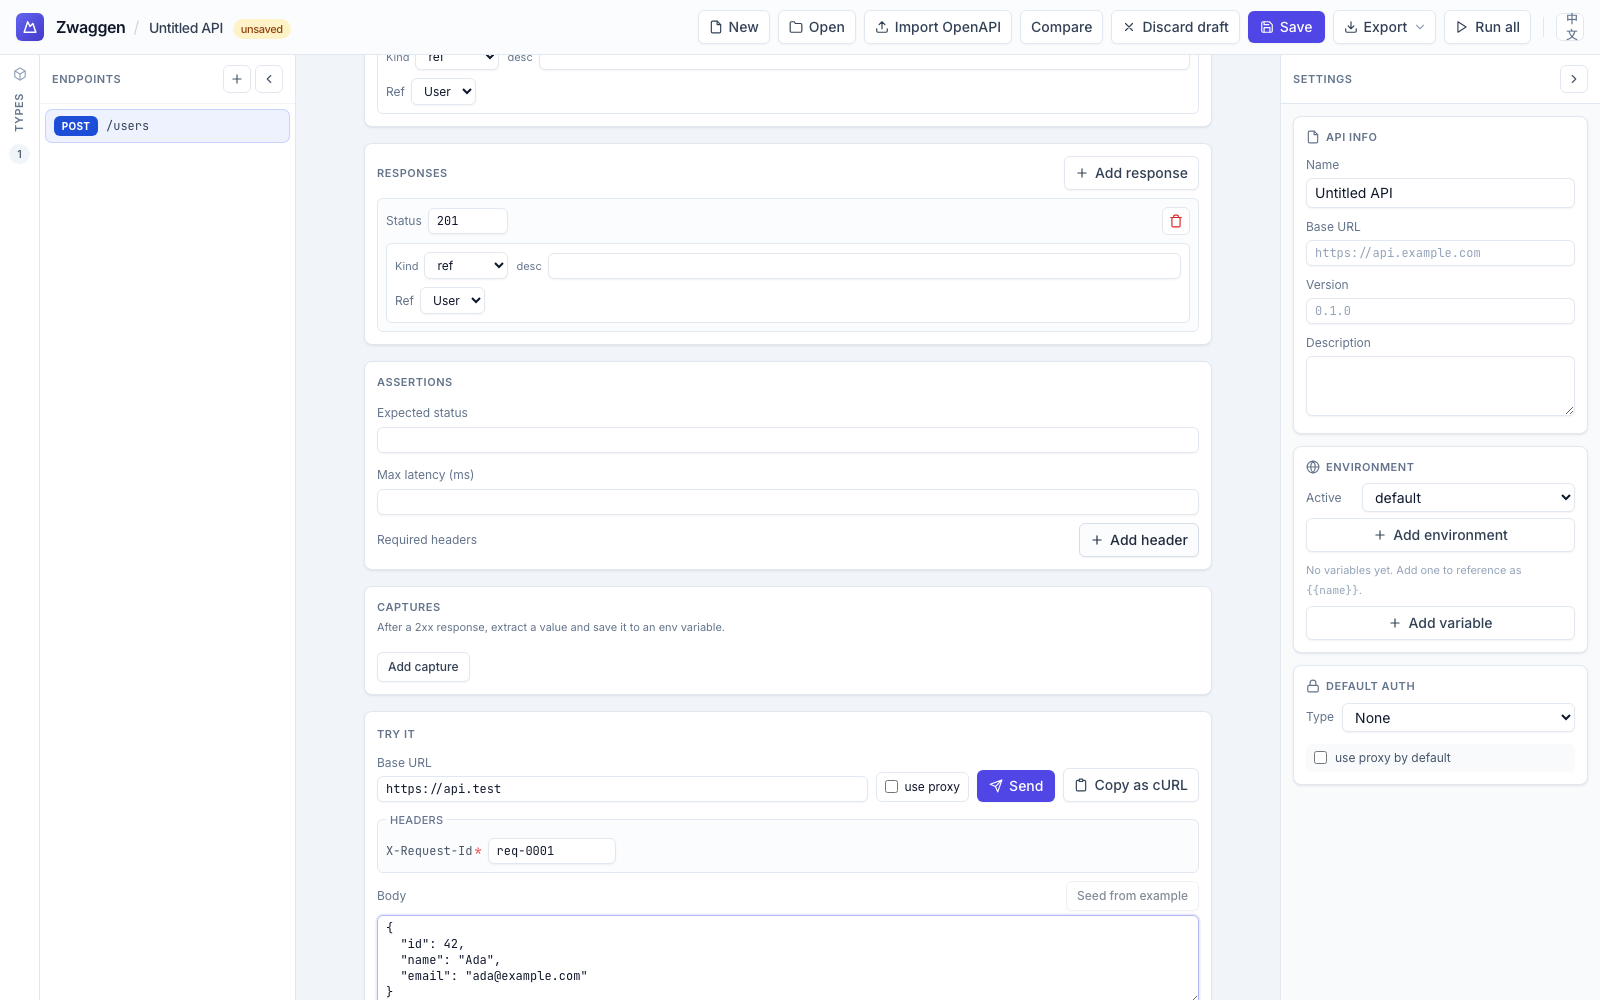
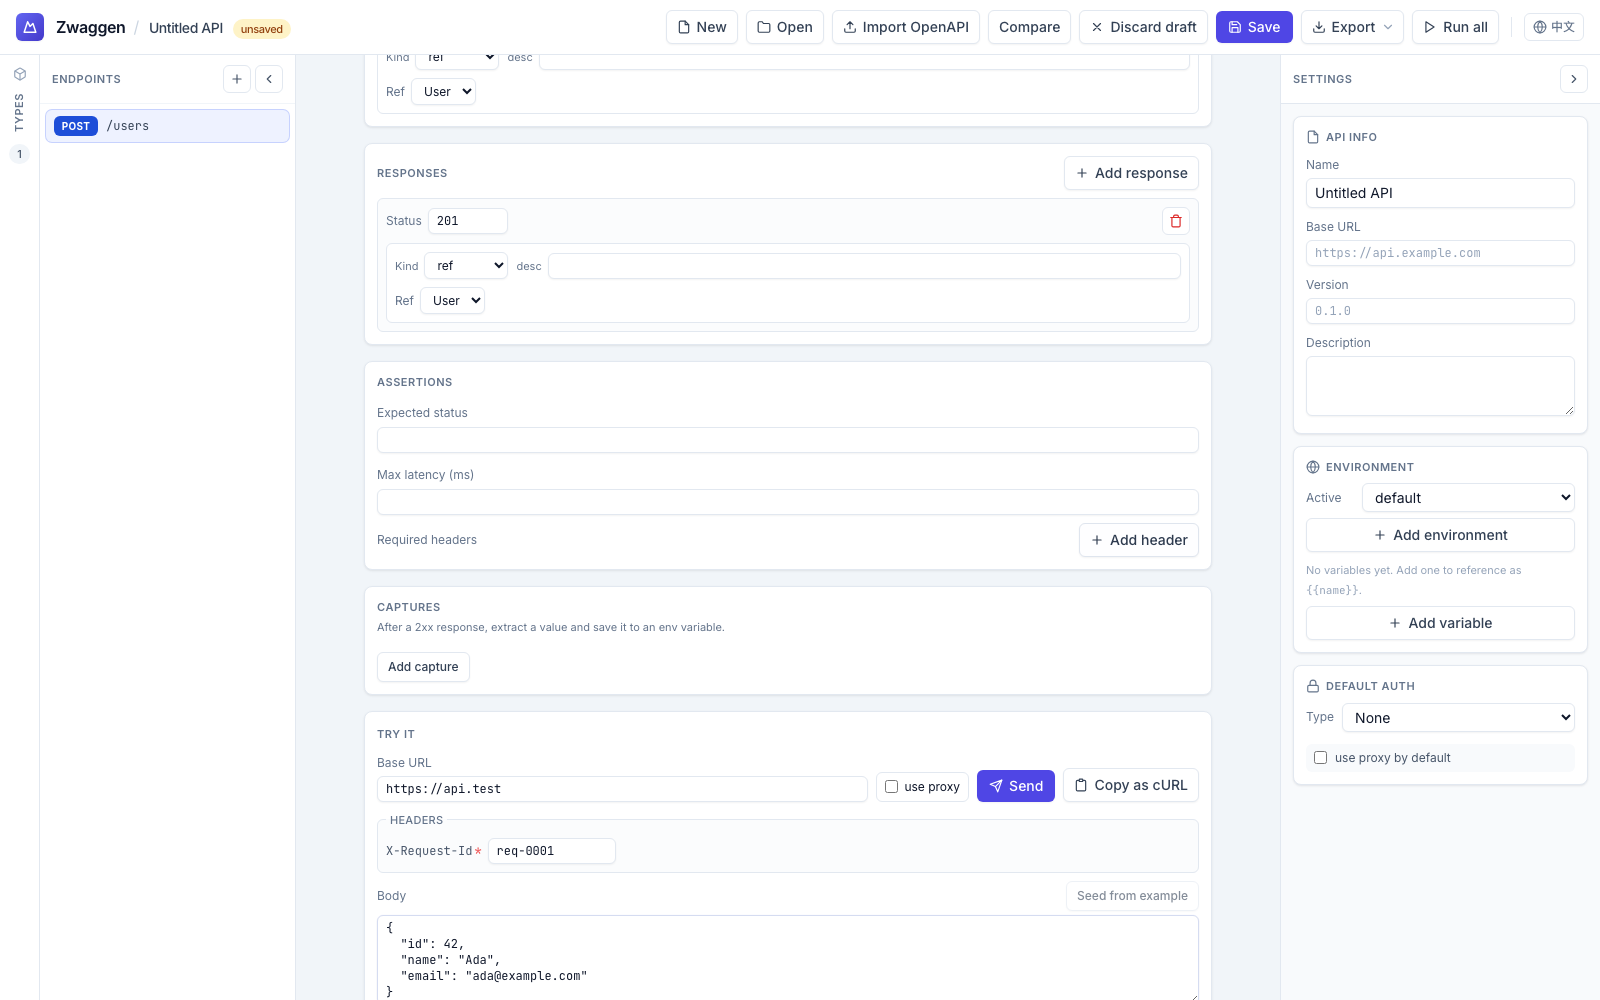
docs: refresh screenshots from current UI
Also fix addType helper in guide spec — wait for input visibility before
filling and click the dialog heading (instead of Tab) to reliably trigger
the uncontrolled input's onBlur rename handler in headless mode.

Changed region(s): [[0.4375, 0.0, 1.0, 0.062]]

diff --git a/apps/web/e2e/docs-screenshots-guide.spec.ts b/apps/web/e2e/docs-screenshots-guide.spec.ts
@@ -37,15 +37,25 @@ async function addType(page: Page, name: string) {
   await typesDialog.getByRole('button', { name: 'Add type' }).click();
   await expect.poll(async () => typesDialog.locator('ul > li').count()).toBe(beforeCount + 1);
 
+  // Wait for the Type name input to appear and be stable before filling.
+  // The input uses `defaultValue` (uncontrolled) and `key={selected}` — it
+  // remounts when the new type becomes selected, but React may still be
+  // flushing the DOM update when we reach here.
   const typeNameInput = page.getByLabel('Type name');
+  await expect(typeNameInput).toBeVisible();
+  // Clear then fill to ensure Playwright fires proper input events on
+  // uncontrolled React inputs.
+  await typeNameInput.click({ clickCount: 3 }); // select all
   await typeNameInput.fill(name);
-  await typeNameInput.press('Tab');
+  // Click the dialog heading to trigger onBlur (more reliable than Tab in
+  // headless mode for async rename handlers).
+  await typesDialog.getByRole('heading', { level: 2 }).click();
 
   // Wait for the rename to land (new name in list) AND for any transient
   // "NewType*" placeholder to be gone — otherwise a subsequent addType's
   // onClick closure may still reference the pre-rename spec.
-  await expect(typesDialog.getByRole('button', { name, exact: true })).toBeVisible();
-  await expect(typesDialog.getByRole('button', { name: /^NewType\d*$/ })).toHaveCount(0);
+  await expect(typesDialog.getByRole('button', { name, exact: true })).toBeVisible({ timeout: 8000 });
+  await expect(typesDialog.getByRole('button', { name: /^NewType\d*$/ })).toHaveCount(0, { timeout: 8000 });
 }
 
 /** Adds a single field on the currently-selected type. `fieldIndex` is the
